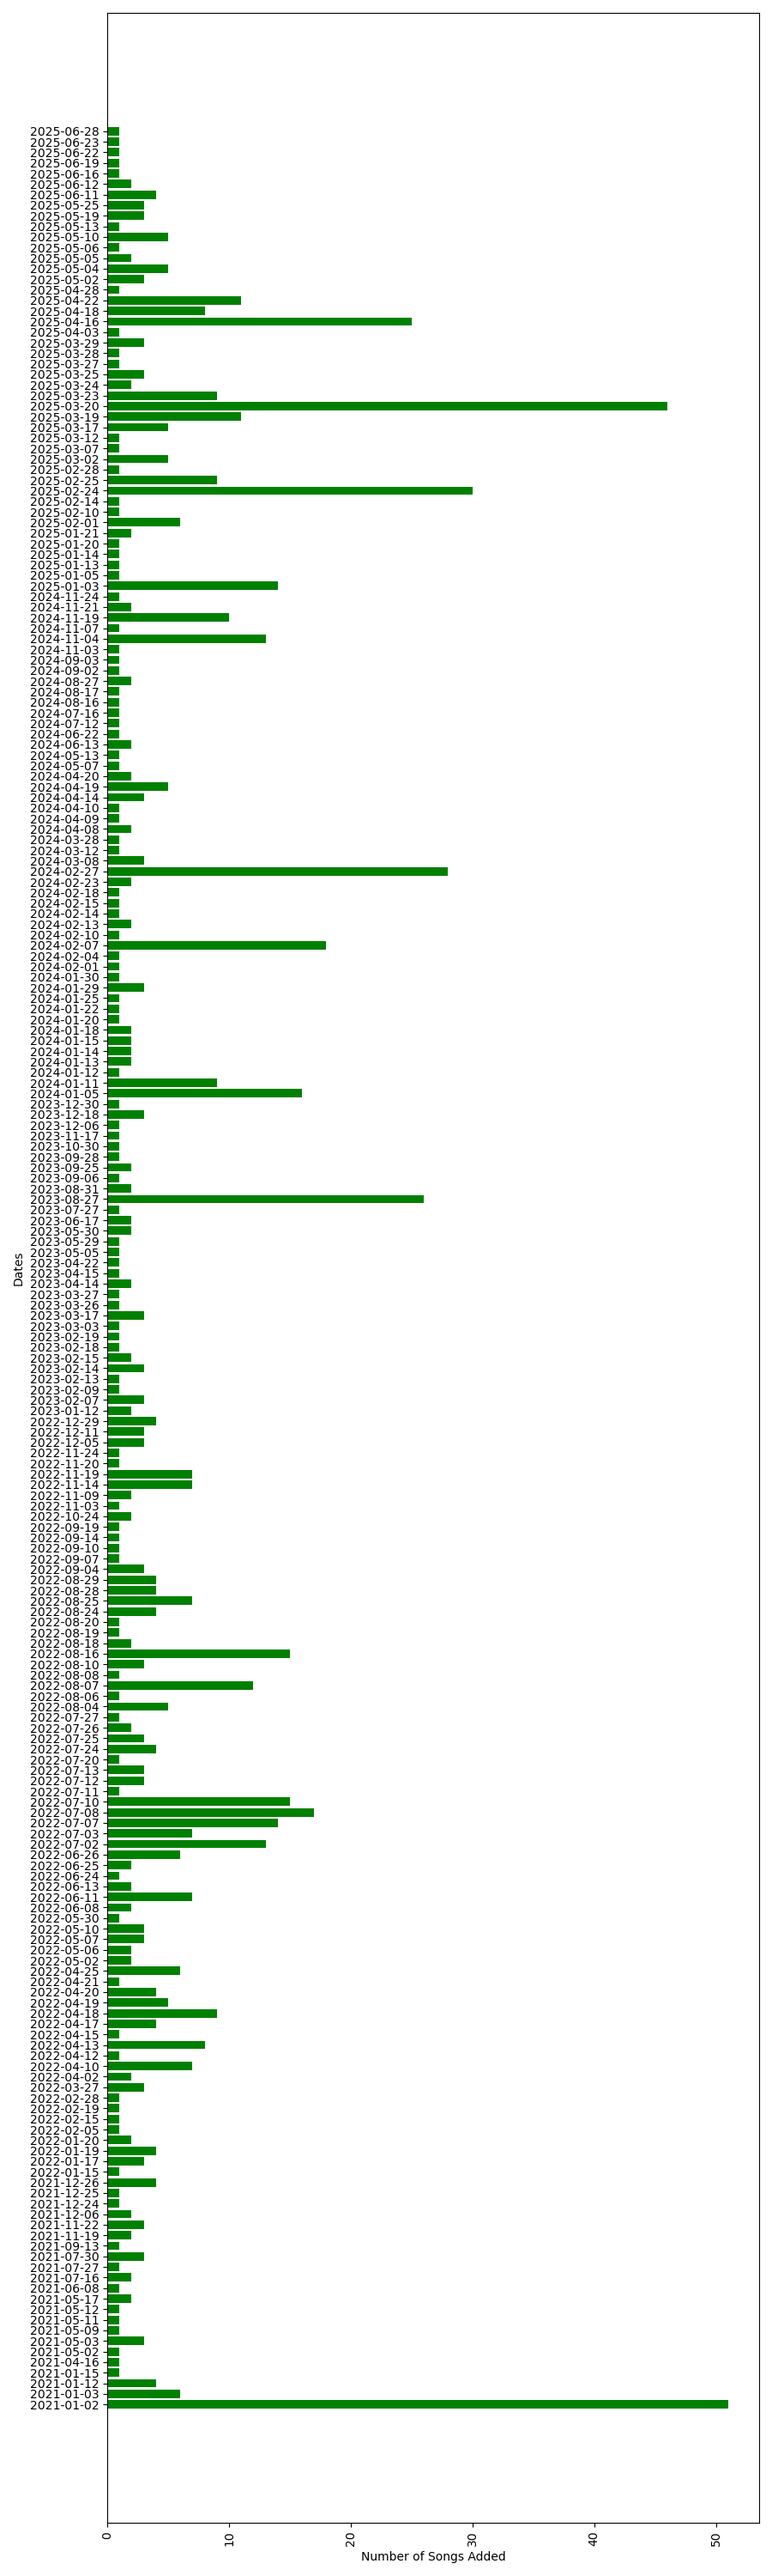
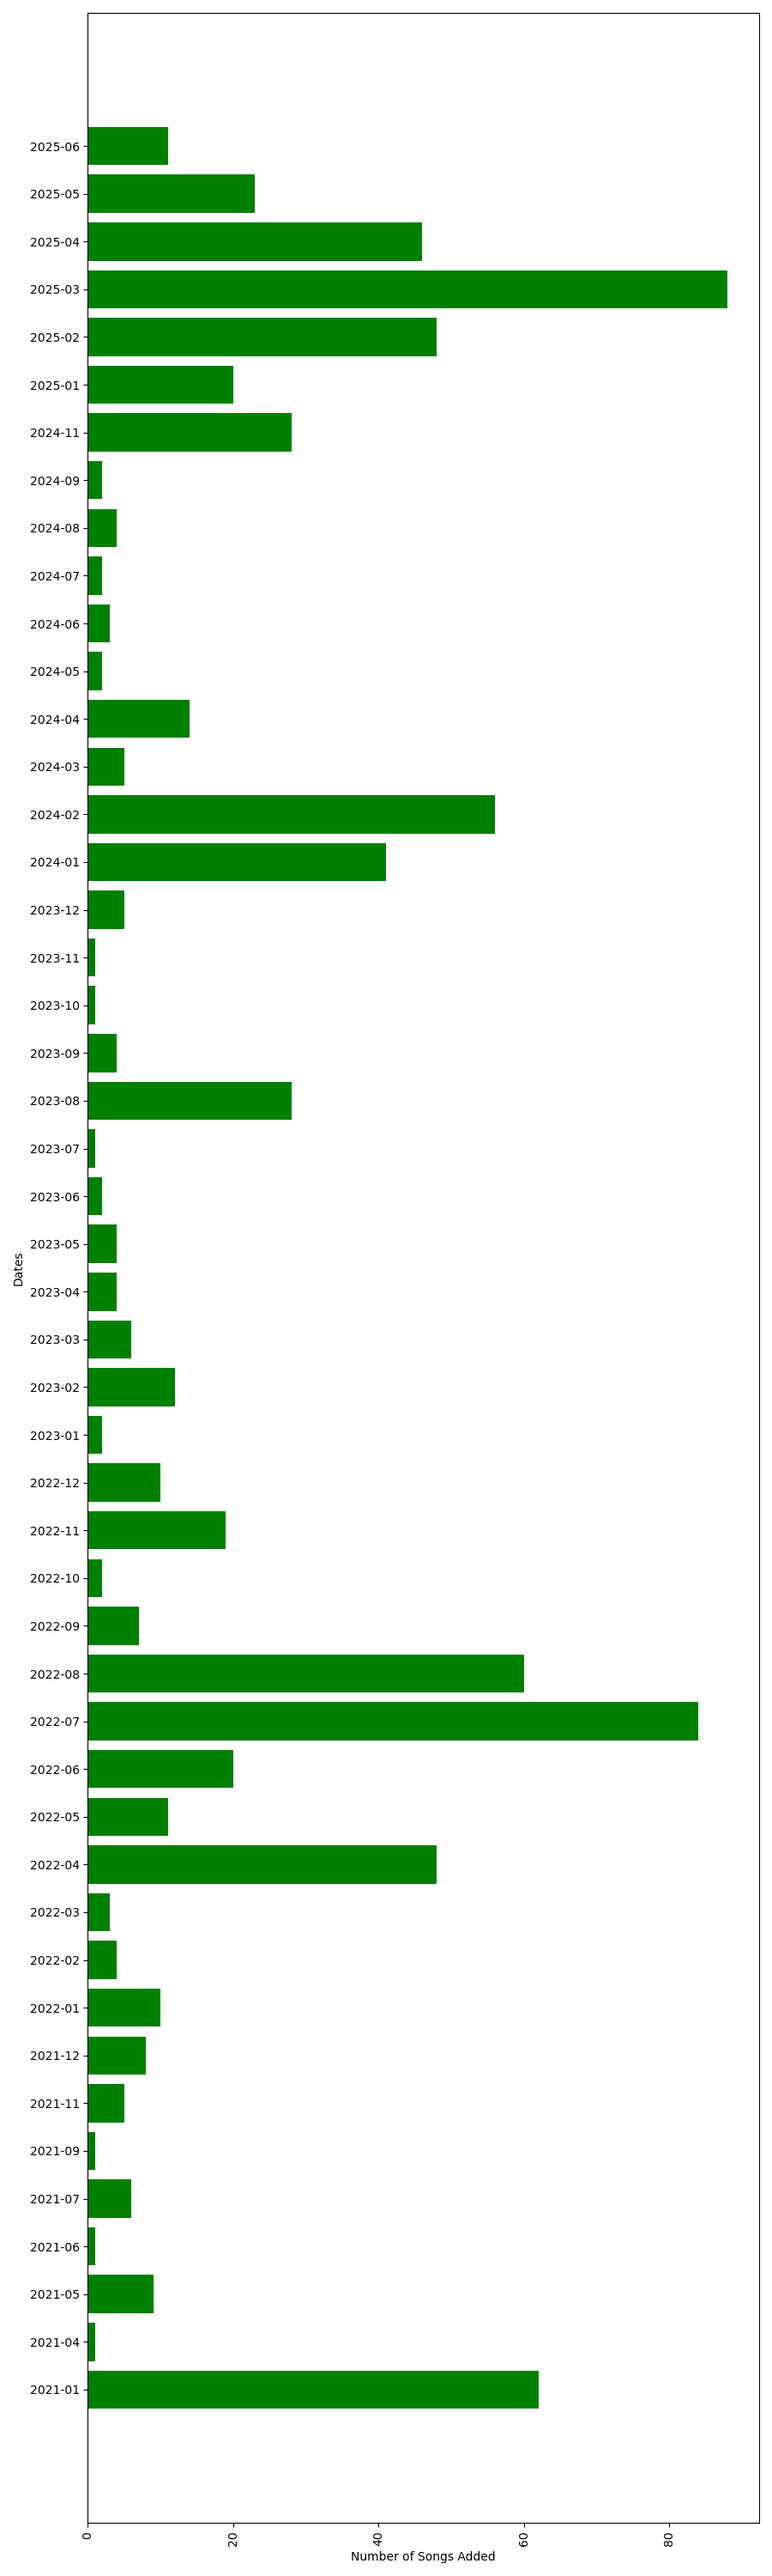
implemented datetime for better graph readability

Changed region(s): [[0.0311, 0.031, 0.9644, 0.961], [0.7156, 0.93, 0.9333, 0.961], [0.4667, 0.992, 0.6533, 1.0]]

diff --git a/songVisuals.py b/songVisuals.py
@@ -2,6 +2,7 @@ import matplotlib.pyplot as plt
 import os
 from collections import defaultdict
 from jsonReader import JsonReader
+from datetime import datetime
 
 
 
@@ -14,9 +15,10 @@ def analyze_song_amount_per_date(song_data):
     date_counter = defaultdict(int)
     for playlist in data['playlists']:
         for item in playlist.get('items', []):
-            date = item.get('addedDate')
-            if date:
-                date_counter[date] += 1
+            date = datetime.strptime(item.get('addedDate'), "%Y-%m-%d")
+            date_month_convertion = date.strftime("%Y-%m")
+            if date_month_convertion:
+                date_counter[date_month_convertion] += 1
 
     print(date_counter)
     return dict(date_counter)
